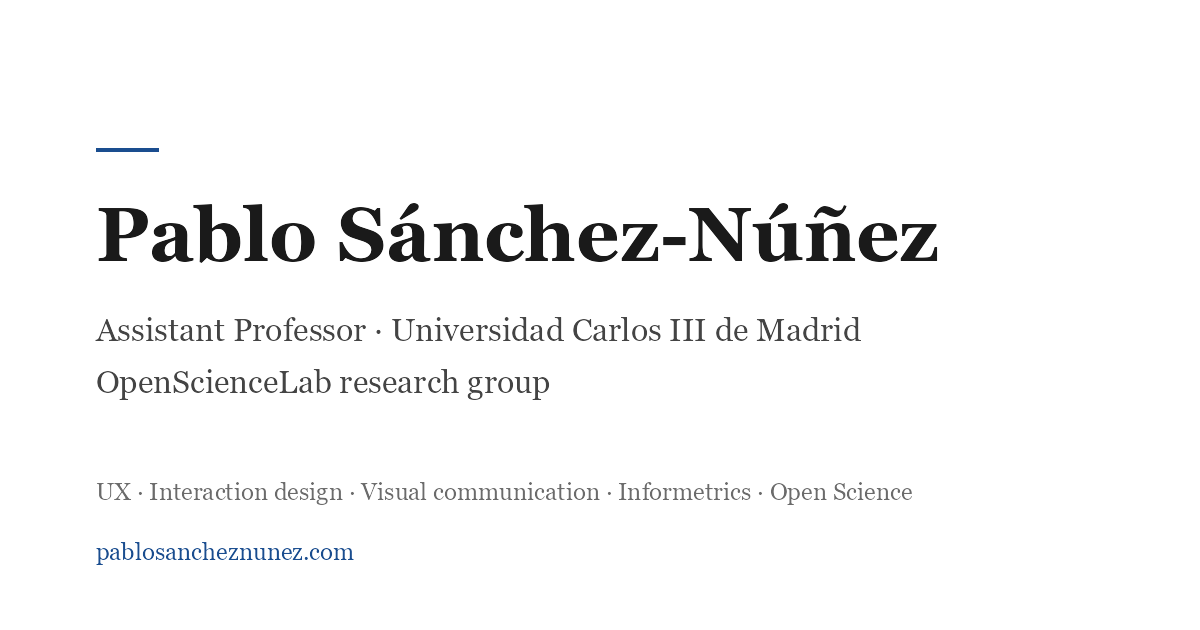
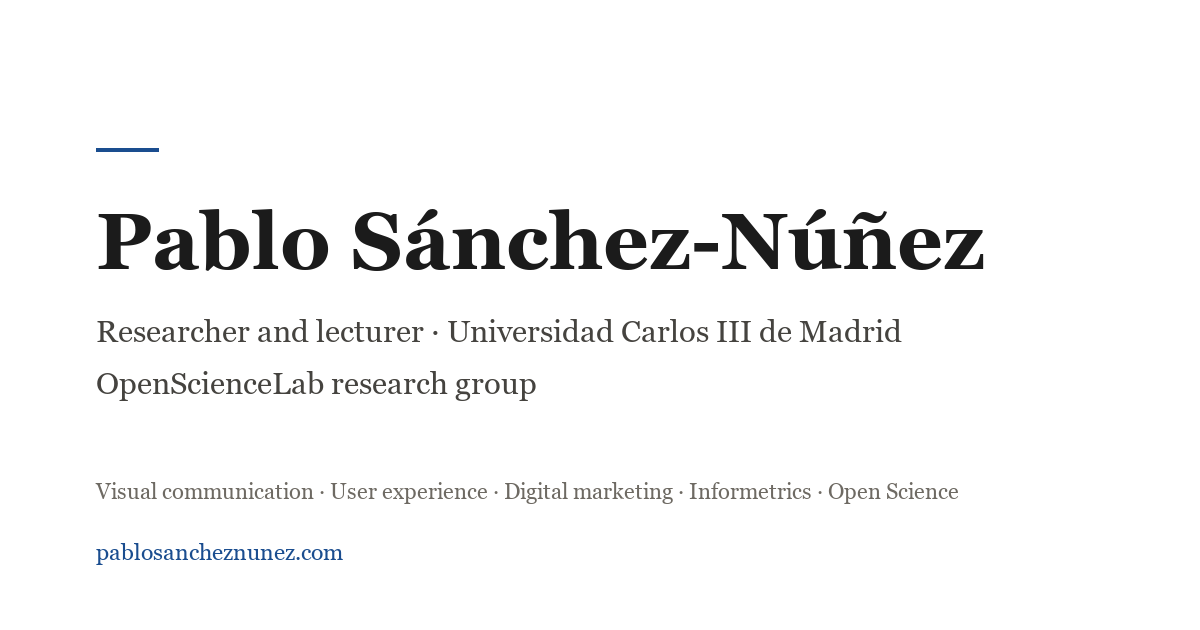
Make the site timeless: no job rank or copyright year
Describe the role as researcher and lecturer, drop the year from the
footer and redraw the sharing image to match.

diff --git a/index.html b/index.html
@@ -5,7 +5,7 @@ layout: default
 {%- assign orcid = "https://orcid.org/" | append: site.author.orcid -%}
   <header class="masthead">
     <h1>Pablo Sánchez-Núñez</h1>
-    <p class="role">Assistant Professor · <a href="https://opensciencelab.uc3m.es/">OpenScienceLab</a>, Library and Information Science Department, Universidad Carlos III de Madrid</p>
+    <p class="role">Researcher and lecturer · <a href="https://opensciencelab.uc3m.es/">OpenScienceLab</a>, Library and Information Science Department, Universidad Carlos III de Madrid</p>
   </header>
 
   <main id="main">
@@ -68,7 +68,6 @@ layout: default
     "@type": "Person",
     "name": "{{ site.author.name }}",
     "url": "{{ site.url }}/",
-    "jobTitle": "Assistant Professor",
     "worksFor": { "@type": "CollegeOrUniversity", "name": "Universidad Carlos III de Madrid", "url": "https://www.uc3m.es/Home" },
     "memberOf": { "@type": "Organization", "name": "OpenScienceLab", "url": "https://opensciencelab.uc3m.es/" },
     "email": "mailto:{{ site.author.email }}",

diff --git a/_layouts/default.html b/_layouts/default.html
@@ -19,7 +19,7 @@
 <div class="wrap">
 {{ content }}
   <footer>
-    <span>{{ site.author.name }}, © {{ site.time | date: "%Y" }}</span>
+    <span>© {{ site.author.name }}</span>
     <span><button type="button" class="link-btn" data-cookie-settings>Cookie settings</button> · <a href="/cookies/">Cookie policy</a></span>
   </footer>
 </div>
